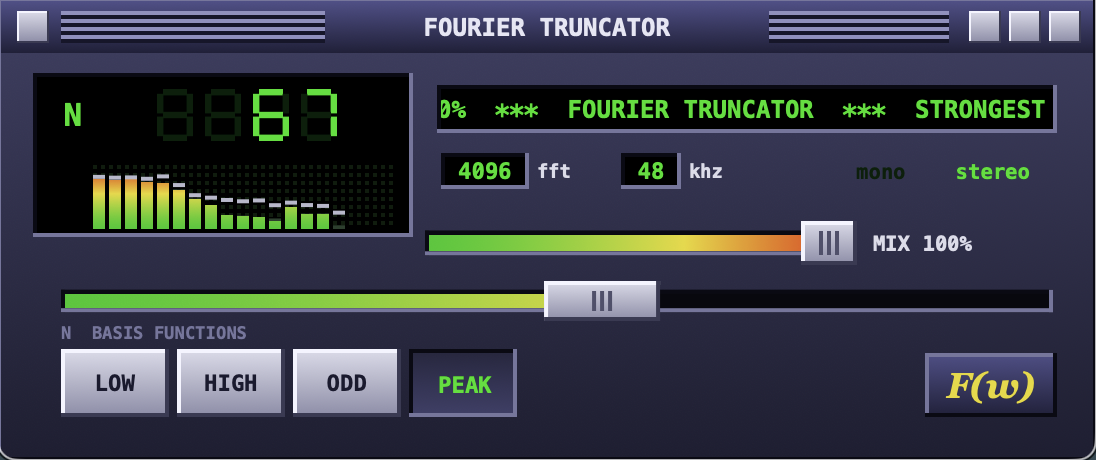
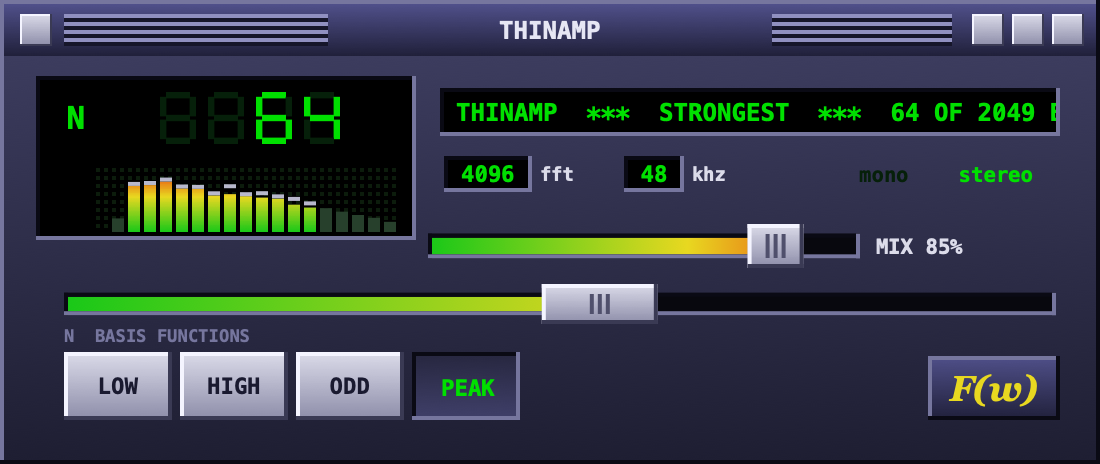
feat: rename to Thinamp

diff --git a/Source/PluginEditor.cpp b/Source/PluginEditor.cpp
@@ -151,7 +151,7 @@ void ModeButtons::mouseDown (const juce::MouseEvent& e)
 }
 
 //==============================================================================
-FourierTruncatorEditor::FourierTruncatorEditor (FourierTruncatorProcessor& p)
+ThinampEditor::ThinampEditor (ThinampProcessor& p)
     : AudioProcessorEditor (p),
       truncator (p),
       nAttachment (p.apvts, "n", nSlider),
@@ -176,13 +176,13 @@ FourierTruncatorEditor::FourierTruncatorEditor (FourierTruncatorProcessor& p)
     startTimerHz (30);
 }
 
-FourierTruncatorEditor::~FourierTruncatorEditor()
+ThinampEditor::~ThinampEditor()
 {
     nSlider.setLookAndFeel (nullptr);
     mixSlider.setLookAndFeel (nullptr);
 }
 
-void FourierTruncatorEditor::resized()
+void ThinampEditor::resized()
 {
     mixSlider.setBounds (scaled (107, 56, 108, 11));
     nSlider.setBounds (scaled (16, 71, 248, 10));
@@ -190,7 +190,7 @@ void FourierTruncatorEditor::resized()
                                                 - ModeButtons::gap, 17));
 }
 
-void FourierTruncatorEditor::timerCallback()
+void ThinampEditor::timerCallback()
 {
     auto& spectrum = truncator.spectrum();
     const float barHeight = analyzerBox.getHeight();
@@ -222,7 +222,7 @@ void FourierTruncatorEditor::timerCallback()
     const int mix = juce::roundToInt (truncator.apvts.getRawParameterValue ("mix")->load() * 100.0f);
     const int kept = mode == (int) ft::Mode::Odd ? juce::jmin (n, ft::numBins / 2) : n;
 
-    const auto text = juce::String ("***  FOURIER TRUNCATOR  ***  ") + modeLongNames[mode] + "  ***  "
+    const auto text = juce::String ("***  THINAMP  ***  ") + modeLongNames[mode] + "  ***  "
                     + juce::String (kept) + " OF " + juce::String (ft::numBins) + " BASIS FUNCTIONS  ***  DRY/WET "
                     + juce::String (mix) + "%  ";
 
@@ -241,7 +241,7 @@ void FourierTruncatorEditor::timerCallback()
     repaint();
 }
 
-void FourierTruncatorEditor::paint (Graphics& g)
+void ThinampEditor::paint (Graphics& g)
 {
     g.addTransform (juce::AffineTransform::scale (ft::ui::scale));
 
@@ -270,7 +270,7 @@ void FourierTruncatorEditor::paint (Graphics& g)
     g.drawText ("F(w)", logo, juce::Justification::centred, false);
 }
 
-void FourierTruncatorEditor::drawTitleBar (Graphics& g)
+void ThinampEditor::drawTitleBar (Graphics& g)
 {
     const Rectangle<float> bar (1, 1, (float) ft::ui::baseWidth - 2, 13);
     g.setGradientFill (ColourGradient (palette::titleTop, 0, bar.getY(), palette::titleBottom, 0, bar.getBottom(), false));
@@ -305,10 +305,10 @@ void FourierTruncatorEditor::drawTitleBar (Graphics& g)
 
     g.setColour (palette::titleText);
     g.setFont (lcdFont (7.0f));
-    g.drawText ("FOURIER TRUNCATOR", Rectangle<float> (84, 1, 107, 13), juce::Justification::centred, false);
+    g.drawText ("THINAMP", Rectangle<float> (84, 1, 107, 13), juce::Justification::centred, false);
 }
 
-void FourierTruncatorEditor::drawLcd (Graphics& g)
+void ThinampEditor::drawLcd (Graphics& g)
 {
     g.setColour (palette::lcd);
     g.fillRect (lcdBox);
@@ -353,7 +353,7 @@ void FourierTruncatorEditor::drawLcd (Graphics& g)
     }
 }
 
-void FourierTruncatorEditor::drawMarquee (Graphics& g)
+void ThinampEditor::drawMarquee (Graphics& g)
 {
     g.setColour (palette::lcd);
     g.fillRect (marqueeBox);
@@ -369,7 +369,7 @@ void FourierTruncatorEditor::drawMarquee (Graphics& g)
                     juce::Justification::centredLeft, false);
 }
 
-void FourierTruncatorEditor::drawReadouts (Graphics& g)
+void ThinampEditor::drawReadouts (Graphics& g)
 {
     auto box = [&g] (Rectangle<float> r, const juce::String& value, const char* label)
     {

diff --git a/Source/PluginProcessor.cpp b/Source/PluginProcessor.cpp
@@ -1,7 +1,7 @@
 #include "PluginProcessor.h"
 #include "PluginEditor.h"
 
-FourierTruncatorProcessor::FourierTruncatorProcessor()
+ThinampProcessor::ThinampProcessor()
     : AudioProcessor (BusesProperties()
                           .withInput ("Input", juce::AudioChannelSet::stereo(), true)
                           .withOutput ("Output", juce::AudioChannelSet::stereo(), true)),
@@ -12,7 +12,7 @@ FourierTruncatorProcessor::FourierTruncatorProcessor()
     modeParam = apvts.getRawParameterValue ("mode");
 }
 
-juce::AudioProcessorValueTreeState::ParameterLayout FourierTruncatorProcessor::createLayout()
+juce::AudioProcessorValueTreeState::ParameterLayout ThinampProcessor::createLayout()
 {
     // Log-scaled so the knob spends as much travel on 1..45 as on 45..2048.
     juce::NormalisableRange<float> nRange {
@@ -40,21 +40,21 @@ juce::AudioProcessorValueTreeState::ParameterLayout FourierTruncatorProcessor::c
     };
 }
 
-void FourierTruncatorProcessor::prepareToPlay (double sampleRate, int)
+void ThinampProcessor::prepareToPlay (double sampleRate, int)
 {
     displaySampleRate.store (sampleRate);
     engine.prepare (getTotalNumOutputChannels());
     setLatencySamples (ft::latencySamples);
 }
 
-bool FourierTruncatorProcessor::isBusesLayoutSupported (const BusesLayout& layouts) const
+bool ThinampProcessor::isBusesLayoutSupported (const BusesLayout& layouts) const
 {
     const auto out = layouts.getMainOutputChannelSet();
     return (out == juce::AudioChannelSet::mono() || out == juce::AudioChannelSet::stereo())
         && out == layouts.getMainInputChannelSet();
 }
 
-void FourierTruncatorProcessor::processBlock (juce::AudioBuffer<float>& buffer, juce::MidiBuffer&)
+void ThinampProcessor::processBlock (juce::AudioBuffer<float>& buffer, juce::MidiBuffer&)
 {
     juce::ScopedNoDenormals noDenormals;
 
@@ -65,23 +65,23 @@ void FourierTruncatorProcessor::processBlock (juce::AudioBuffer<float>& buffer, 
     engine.process (buffer.getArrayOfWritePointers(), buffer.getNumChannels(), buffer.getNumSamples());
 }
 
-double FourierTruncatorProcessor::getTailLengthSeconds() const
+double ThinampProcessor::getTailLengthSeconds() const
 {
     return ft::fftSize / juce::jmax (1.0, getSampleRate());
 }
 
-juce::AudioProcessorEditor* FourierTruncatorProcessor::createEditor()
+juce::AudioProcessorEditor* ThinampProcessor::createEditor()
 {
-    return new FourierTruncatorEditor (*this);
+    return new ThinampEditor (*this);
 }
 
-void FourierTruncatorProcessor::getStateInformation (juce::MemoryBlock& destData)
+void ThinampProcessor::getStateInformation (juce::MemoryBlock& destData)
 {
     if (auto xml = apvts.copyState().createXml())
         copyXmlToBinary (*xml, destData);
 }
 
-void FourierTruncatorProcessor::setStateInformation (const void* data, int sizeInBytes)
+void ThinampProcessor::setStateInformation (const void* data, int sizeInBytes)
 {
     if (auto xml = getXmlFromBinary (data, sizeInBytes))
         if (xml->hasTagName (apvts.state.getType()))
@@ -90,5 +90,5 @@ void FourierTruncatorProcessor::setStateInformation (const void* data, int sizeI
 
 juce::AudioProcessor* JUCE_CALLTYPE createPluginFilter()
 {
-    return new FourierTruncatorProcessor();
+    return new ThinampProcessor();
 }

diff --git a/Source/PluginEditor.h b/Source/PluginEditor.h
@@ -35,11 +35,11 @@ private:
     int selected = 0;
 };
 
-class FourierTruncatorEditor final : public juce::AudioProcessorEditor, private juce::Timer
+class ThinampEditor final : public juce::AudioProcessorEditor, private juce::Timer
 {
 public:
-    explicit FourierTruncatorEditor (FourierTruncatorProcessor&);
-    ~FourierTruncatorEditor() override;
+    explicit ThinampEditor (ThinampProcessor&);
+    ~ThinampEditor() override;
 
     void paint (juce::Graphics&) override;
     void resized() override;
@@ -51,7 +51,7 @@ private:
     void drawMarquee (juce::Graphics&);
     void drawReadouts (juce::Graphics&);
 
-    FourierTruncatorProcessor& truncator;
+    ThinampProcessor& truncator;
     WinampLookAndFeel lookAndFeel;
 
     juce::Slider nSlider, mixSlider;
@@ -65,5 +65,5 @@ private:
     juce::String marqueeText;
     float marqueeWidth = 0.0f, marqueeOffset = 0.0f;
 
-    JUCE_DECLARE_NON_COPYABLE_WITH_LEAK_DETECTOR (FourierTruncatorEditor)
+    JUCE_DECLARE_NON_COPYABLE_WITH_LEAK_DETECTOR (ThinampEditor)
 };

diff --git a/tests/UiSnapshot.cpp b/tests/UiSnapshot.cpp
@@ -6,7 +6,7 @@
 int main (int argc, char** argv)
 {
     juce::ScopedJuceInitialiser_GUI gui;
-    FourierTruncatorProcessor processor;
+    ThinampProcessor processor;
     processor.setRateAndBufferSizeDetails (48000.0, 512);
     processor.prepareToPlay (48000.0, 512);
 
@@ -43,7 +43,7 @@ int main (int argc, char** argv)
         juce::MessageManager::getInstance()->runDispatchLoopUntil (5);
     }
 
-    auto image = editor->createComponentSnapshot (editor->getLocalBounds(), true, 1.0f);
+    auto image = editor->createComponentSnapshot (editor->getLocalBounds(), true, 2.0f);
     juce::File out (juce::File::getCurrentWorkingDirectory().getChildFile (argc > 1 ? argv[1] : "ui.png"));
     out.deleteFile();
     juce::FileOutputStream stream (out);

diff --git a/Source/PluginProcessor.h b/Source/PluginProcessor.h
@@ -3,10 +3,10 @@
 #include <juce_audio_processors/juce_audio_processors.h>
 #include "TruncatorEngine.h"
 
-class FourierTruncatorProcessor final : public juce::AudioProcessor
+class ThinampProcessor final : public juce::AudioProcessor
 {
 public:
-    FourierTruncatorProcessor();
+    ThinampProcessor();
 
     void prepareToPlay (double sampleRate, int samplesPerBlock) override;
     void releaseResources() override {}
@@ -47,5 +47,5 @@ private:
     std::atomic<float>* modeParam = nullptr;
     std::atomic<double> displaySampleRate { 44100.0 };
 
-    JUCE_DECLARE_NON_COPYABLE_WITH_LEAK_DETECTOR (FourierTruncatorProcessor)
+    JUCE_DECLARE_NON_COPYABLE_WITH_LEAK_DETECTOR (ThinampProcessor)
 };

diff --git a/README.md b/README.md
@@ -1,21 +1,24 @@
-# Fourier Truncator
+# Thinamp
 
-VST3/AU effect: STFT (4096-point, 75% overlap), keep N of the 2049 Fourier basis functions per frame, resynthesise.
-Two knobs (N, dry/wet) plus four modes: LOW, HIGH, ODD (sparse odd bins), PEAK (strongest N). Winamp 2.x UI.
+A spectral thinning effect with a Winamp 2.x face: turn one knob and the sound is rebuilt from fewer and fewer of
+its Fourier basis functions.
 
-![Fourier Truncator in Ableton Live](docs/screenshot.png)
+Under the hood: STFT (4096-point, 75% overlap), keep N of the 2049 Fourier basis functions per frame, resynthesise.
+Two knobs (N, dry/wet) plus four modes: LOW, HIGH, ODD (sparse odd bins), PEAK (strongest N).
+
+![Thinamp](docs/screenshot.png)
 
 ## Install (Mac)
 
 Open Terminal (Cmd+Space, type "Terminal"), paste this and press Enter:
 
-    curl -fsSL https://raw.githubusercontent.com/mostlyworking/fourier-truncator/main/install.sh | bash
+    curl -fsSL https://raw.githubusercontent.com/mostlyworking/thinamp/main/install.sh | bash
 
 Then restart your DAW or rescan plugins (see below). It installs both formats: VST3 and Audio Unit (AU).
 
-Without Terminal: download `FourierTruncator-mac.zip` from
-[Releases](https://github.com/mostlyworking/fourier-truncator/releases/latest), unzip it, right-click
-"Install Fourier Truncator.command" and choose Open (the plugin isn't notarized by Apple, so a plain double-click is blocked).
+Without Terminal: download `Thinamp-mac.zip` from
+[Releases](https://github.com/mostlyworking/thinamp/releases/latest), unzip it, right-click
+"Install Thinamp.command" and choose Open (the plugin isn't notarized by Apple, so a plain double-click is blocked).
 
 ## Finding it in your DAW
 
@@ -29,7 +32,7 @@ Without Terminal: download `FourierTruncator-mac.zip` from
 | Cubase, Nuendo | VST3 | Restart, or Studio > VST Plug-in Manager to check it's listed |
 | Studio One | VST3 or AU | Restart; new plugins are scanned on startup |
 
-It shows up as "Fourier Truncator" by "Dan Vicente", usually under audio effects or the filter category.
+It shows up as "Thinamp" by "Dan Vicente", usually under audio effects or the filter category.
 If a newly installed AU doesn't appear, log out of macOS and back in once.
 
 ## Behaviour
